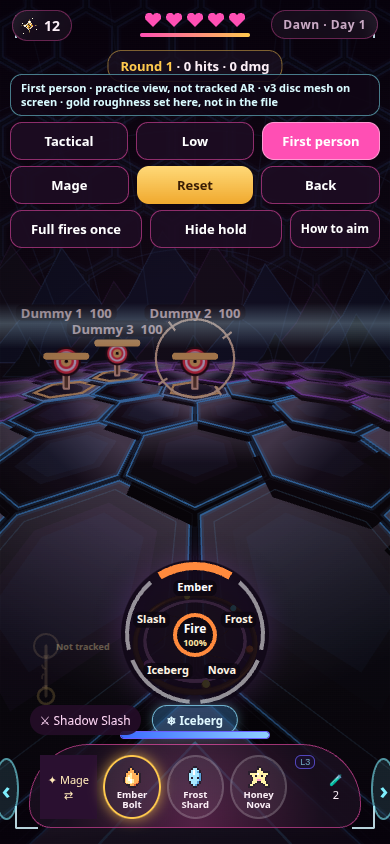
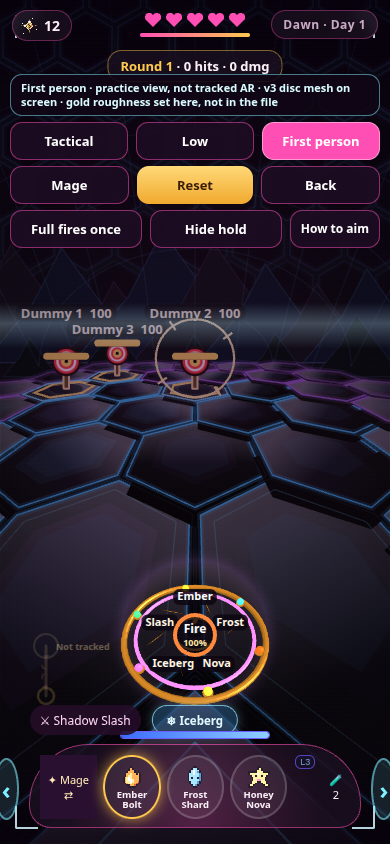
Show the v3 gold ring instead of covering it
The flat disc fill was still painted over the mesh, so the phone only saw a dark plate and a thin arc. That fill is skipped when the mesh is up, and the metal gets a top light plus a fill so the gold rim and gems stay readable on the dark field.

Changed region(s): [[0.3077, 0.6469, 0.7077, 0.8626]]

diff --git a/v7/index.html b/v7/index.html
@@ -4402,22 +4402,22 @@ function drawDisc() {
   ctx.save();
   ctx.translate(x, y);
   if (mesh) {
-    if (ch > 0.02) {
-      // The GLB has no charged halo. This soft disc is drawn here, not read from the file.
-      const hg = ctx.createRadialGradient(0, 0, R * 0.15, 0, 0, R * 1.45);
-      hg.addColorStop(0, `rgba(255,214,150,${0.16 * ch})`);
-      hg.addColorStop(0.5, `rgba(170,80,230,${0.2 * ch})`);
+    if (ch > 0.04) {
+      // The file has no halo mesh. A short, soft fringe only, not a plate over the floor.
+      const hg = ctx.createRadialGradient(0, 0, R * 0.72, 0, 0, R * 1.22);
+      hg.addColorStop(0, `rgba(255,210,140,0)`);
+      hg.addColorStop(0.55, `rgba(210,140,255,${0.12 * ch})`);
       hg.addColorStop(1, 'rgba(0,0,0,0)');
-      ctx.fillStyle = hg; ctx.beginPath(); ctx.arc(0, 0, R * 1.45, 0, TAU); ctx.fill();
+      ctx.fillStyle = hg; ctx.beginPath(); ctx.arc(0, 0, R * 1.22, 0, TAU); ctx.fill();
     }
-    const dw = R * 2.45;
-    ctx.drawImage(mesh, -dw / 2, -dw / 2 + R * 0.02, dw, dw);
+    const dw = R * 2.9;
+    ctx.drawImage(mesh, -dw / 2, -dw / 2, dw, dw);
   } else if (custom) drawDiscSprite(custom, R);
   else if (idle || hot) {
     if (idle) drawDiscSprite(idle, R);
     if (hot && ch > 0) { ctx.save(); ctx.globalAlpha = ch; drawDiscSprite(hot, R); ctx.restore(); }
   }
-  if (!skinned) {
+  if (!skinned && !mesh) {
     ctx.fillStyle = 'rgba(14,6,20,.84)';
     ctx.beginPath(); ctx.arc(0, 0, R, 0, TAU); ctx.fill();
   }
@@ -4428,10 +4428,12 @@ function drawDisc() {
   }
   for (let i = 0; i < n; i++) {
     const a0 = -Math.PI / 2 + i * TAU / n + rot, a1 = a0 + TAU / n, am = (a0 + a1) / 2;
-    ctx.beginPath(); ctx.arc(0, 0, R - 6, a0 + 0.08, a1 - 0.08);
-    ctx.strokeStyle = i === sel ? rim[i].col : 'rgba(255,255,255,.55)';
-    ctx.lineWidth = i === sel ? 8 : 4; ctx.stroke();
-    const lx = Math.cos(am) * (R * 0.62), ly = Math.sin(am) * (R * 0.62);
+    if (!mesh) {
+      ctx.beginPath(); ctx.arc(0, 0, R - 6, a0 + 0.08, a1 - 0.08);
+      ctx.strokeStyle = i === sel ? rim[i].col : 'rgba(255,255,255,.55)';
+      ctx.lineWidth = i === sel ? 8 : 4; ctx.stroke();
+    }
+    const lx = Math.cos(am) * (R * (mesh ? 0.5 : 0.62)), ly = Math.sin(am) * (R * (mesh ? 0.5 : 0.62));
     ctx.font = '800 11px ui-rounded,system-ui'; ctx.textAlign = 'center'; ctx.textBaseline = 'middle';
     const tw = ctx.measureText(rim[i].name).width;
     ctx.fillStyle = 'rgba(12,6,16,.84)';
@@ -5313,7 +5315,7 @@ function disc3dBuild() {
   catch (e) { disc3dFallback('The disc mesh did not load. Showing the rendered sprite. That picture is not the mesh.'); return false; }
   if (!parsed || !parsed.parts.length) { disc3dFallback('The disc mesh was empty. Showing the rendered sprite. That picture is not the mesh.'); return false; }
   const vs = 'attribute vec3 aPos;attribute vec3 aNrm;uniform mat4 uMVP;uniform mat4 uModel;uniform mat3 uN;varying vec3 vN;varying vec3 vP;void main(){vec4 w=uModel*vec4(aPos,1.0);vP=w.xyz;vN=uN*aNrm;gl_Position=uMVP*vec4(aPos,1.0);}';
-  const fs = 'precision mediump float;varying vec3 vN;varying vec3 vP;uniform vec4 uBase;uniform vec3 uEmit;uniform float uStr;uniform float uMetal;uniform float uRough;uniform float uCharge;uniform vec3 uLight;uniform vec3 uEye;void main(){vec3 n=normalize(vN);vec3 l=normalize(uLight);vec3 e=normalize(uEye-vP);float nd=abs(dot(n,l));float shine=mix(64.0,10.0,clamp(uRough,0.0,1.0));float spec=pow(abs(dot(n,normalize(l+e))),shine)*(1.0-uRough);vec3 specCol=mix(vec3(1.0),uBase.rgb,clamp(uMetal,0.0,1.0));vec3 lit=uBase.rgb*mix(0.42+nd*0.85,0.08+nd*0.55,uMetal);vec3 c=lit+specCol*spec*mix(0.28,0.9,uMetal)+uEmit*uStr*(0.55+uCharge*2.1);gl_FragColor=vec4(min(c,vec3(1.0)),uBase.a);}';
+  const fs = 'precision mediump float;varying vec3 vN;varying vec3 vP;uniform vec4 uBase;uniform vec3 uEmit;uniform float uStr;uniform float uMetal;uniform float uRough;uniform float uCharge;uniform vec3 uLight;uniform vec3 uEye;void main(){vec3 n=normalize(vN);vec3 l=normalize(uLight);vec3 e=normalize(uEye-vP);float nd=max(dot(n,l),0.0);float wrap=nd*0.62+0.38;float fill=max(dot(n,normalize(vec3(-0.55,0.45,0.35))),0.0);float shine=mix(42.0,14.0,clamp(uRough,0.0,1.0));float spec=pow(max(dot(n,normalize(l+e)),0.0),shine);vec3 specCol=mix(vec3(1.0),vec3(1.0,0.84,0.5),clamp(uMetal,0.0,1.0));vec3 lit=uBase.rgb*mix(0.5+wrap*0.65,0.28+wrap*0.9,uMetal)+uBase.rgb*fill*mix(0.12,0.22,uMetal);vec3 c=lit+specCol*spec*mix(0.22,0.62,uMetal)+uEmit*uStr*(0.85+uCharge*1.35);gl_FragColor=vec4(min(c,vec3(1.0)),uBase.a);}';
   function sh(type, src) { const s = gl.createShader(type); gl.shaderSource(s, src); gl.compileShader(s); if (!gl.getShaderParameter(s, gl.COMPILE_STATUS)) throw new Error(gl.getShaderInfoLog(s)); return s; }
   let prog;
   try {
@@ -5445,7 +5447,7 @@ function discPlayBuild() {
   try { parsed = disc3dParse(disc3dBytes()); }
   catch (e) { DISCPLAY.fail = 'parse'; return false; }
   const vs = 'attribute vec3 aPos;attribute vec3 aNrm;uniform mat4 uMVP;uniform mat4 uModel;uniform mat3 uN;varying vec3 vN;varying vec3 vP;void main(){vec4 w=uModel*vec4(aPos,1.0);vP=w.xyz;vN=uN*aNrm;gl_Position=uMVP*vec4(aPos,1.0);}';
-  const fs = 'precision mediump float;varying vec3 vN;varying vec3 vP;uniform vec4 uBase;uniform vec3 uEmit;uniform float uStr;uniform float uMetal;uniform float uRough;uniform float uCharge;uniform vec3 uLight;uniform vec3 uEye;void main(){vec3 n=normalize(vN);vec3 l=normalize(uLight);vec3 e=normalize(uEye-vP);float nd=abs(dot(n,l));float shine=mix(64.0,10.0,clamp(uRough,0.0,1.0));float spec=pow(abs(dot(n,normalize(l+e))),shine)*(1.0-uRough);vec3 specCol=mix(vec3(1.0),uBase.rgb,clamp(uMetal,0.0,1.0));vec3 lit=uBase.rgb*mix(0.42+nd*0.85,0.08+nd*0.55,uMetal);vec3 c=lit+specCol*spec*mix(0.28,0.9,uMetal)+uEmit*uStr*(0.55+uCharge*2.1);gl_FragColor=vec4(min(c,vec3(1.0)),uBase.a);}';
+  const fs = 'precision mediump float;varying vec3 vN;varying vec3 vP;uniform vec4 uBase;uniform vec3 uEmit;uniform float uStr;uniform float uMetal;uniform float uRough;uniform float uCharge;uniform vec3 uLight;uniform vec3 uEye;void main(){vec3 n=normalize(vN);vec3 l=normalize(uLight);vec3 e=normalize(uEye-vP);float nd=max(dot(n,l),0.0);float wrap=nd*0.62+0.38;float fill=max(dot(n,normalize(vec3(-0.55,0.45,0.35))),0.0);float shine=mix(42.0,14.0,clamp(uRough,0.0,1.0));float spec=pow(max(dot(n,normalize(l+e)),0.0),shine);vec3 specCol=mix(vec3(1.0),vec3(1.0,0.84,0.5),clamp(uMetal,0.0,1.0));vec3 lit=uBase.rgb*mix(0.5+wrap*0.65,0.28+wrap*0.9,uMetal)+uBase.rgb*fill*mix(0.12,0.22,uMetal);vec3 c=lit+specCol*spec*mix(0.22,0.62,uMetal)+uEmit*uStr*(0.85+uCharge*1.35);gl_FragColor=vec4(min(c,vec3(1.0)),uBase.a);}';
   function sh(type, src) { const s = gl.createShader(type); gl.shaderSource(s, src); gl.compileShader(s); if (!gl.getShaderParameter(s, gl.COMPILE_STATUS)) throw new Error(gl.getShaderInfoLog(s)); return s; }
   let prog;
   try {

diff --git a/v7/HANDOFF.md b/v7/HANDOFF.md
@@ -10,7 +10,9 @@ Live `/v7/` on main is unchanged. Nothing here was merged or deployed.
 
 The training disc, including first person, draws the v3 mesh (5,020 triangles) when WebGL is available. Spell names and the charge percent stay drawn on top so the five game spells stay readable. The mesh itself has six gems, not those five names. If WebGL fails, the old sprite is still there.
 
-The file does not contain a roughness number on the gold, so the page sets gold roughness to 0.22 and metal to 1 while drawing. That is not in the GLB. There are no textures. The charged halo in the Blender stills was not exported. The page brightens the mesh’s own glow with charge and adds a soft circle behind the disc. That circle is not the Blender halo. Clearcoat and transmission from the file are not shaded. The gold will look simpler than the Cycles picture.
+The first composite looked like a dark plate because the old flat-disc fill was still painted on top of the mesh, covering the gold and the gems and leaving a thin arc. That fill is skipped when the mesh is showing. The metal is lit from above with a second fill so the ring is not a black silhouette. It is still not the Cycles picture.
+
+The file does not contain a roughness number on the gold, so the page sets gold roughness to 0.22 and metal to 1 while drawing. That is not in the GLB. There are no textures. The charged halo in the Blender stills was not exported. The page brightens the mesh’s own glow with charge and adds a short soft fringe, not a plate over the floor. Clearcoat and transmission from the file are not shaded. The gold will look simpler than the Cycles picture.
 
 ## What you can do
 
